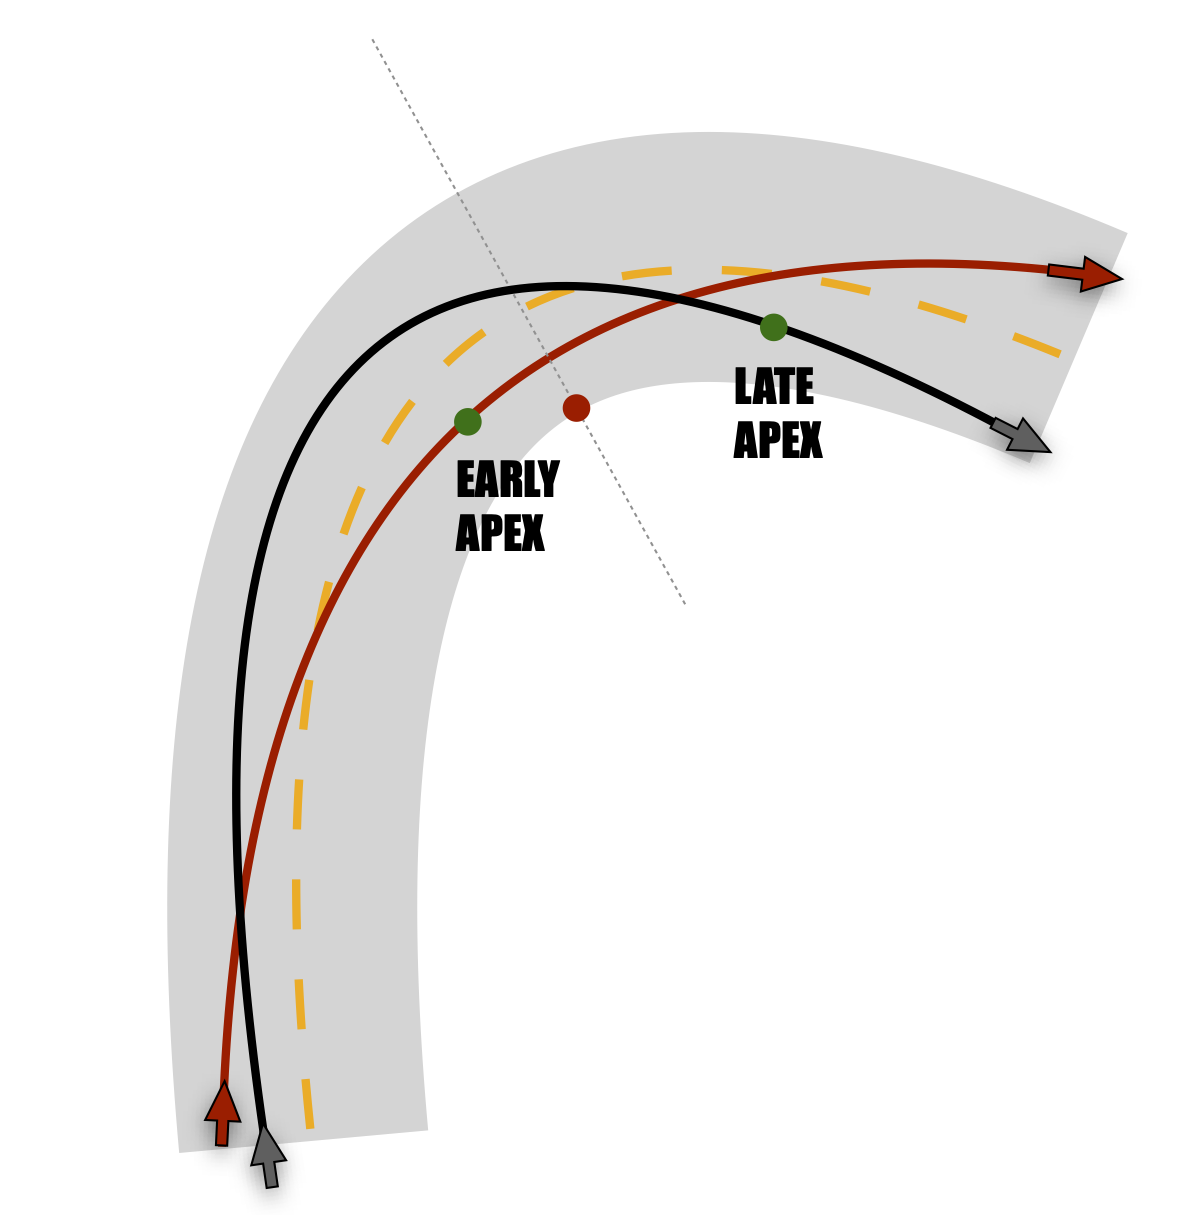
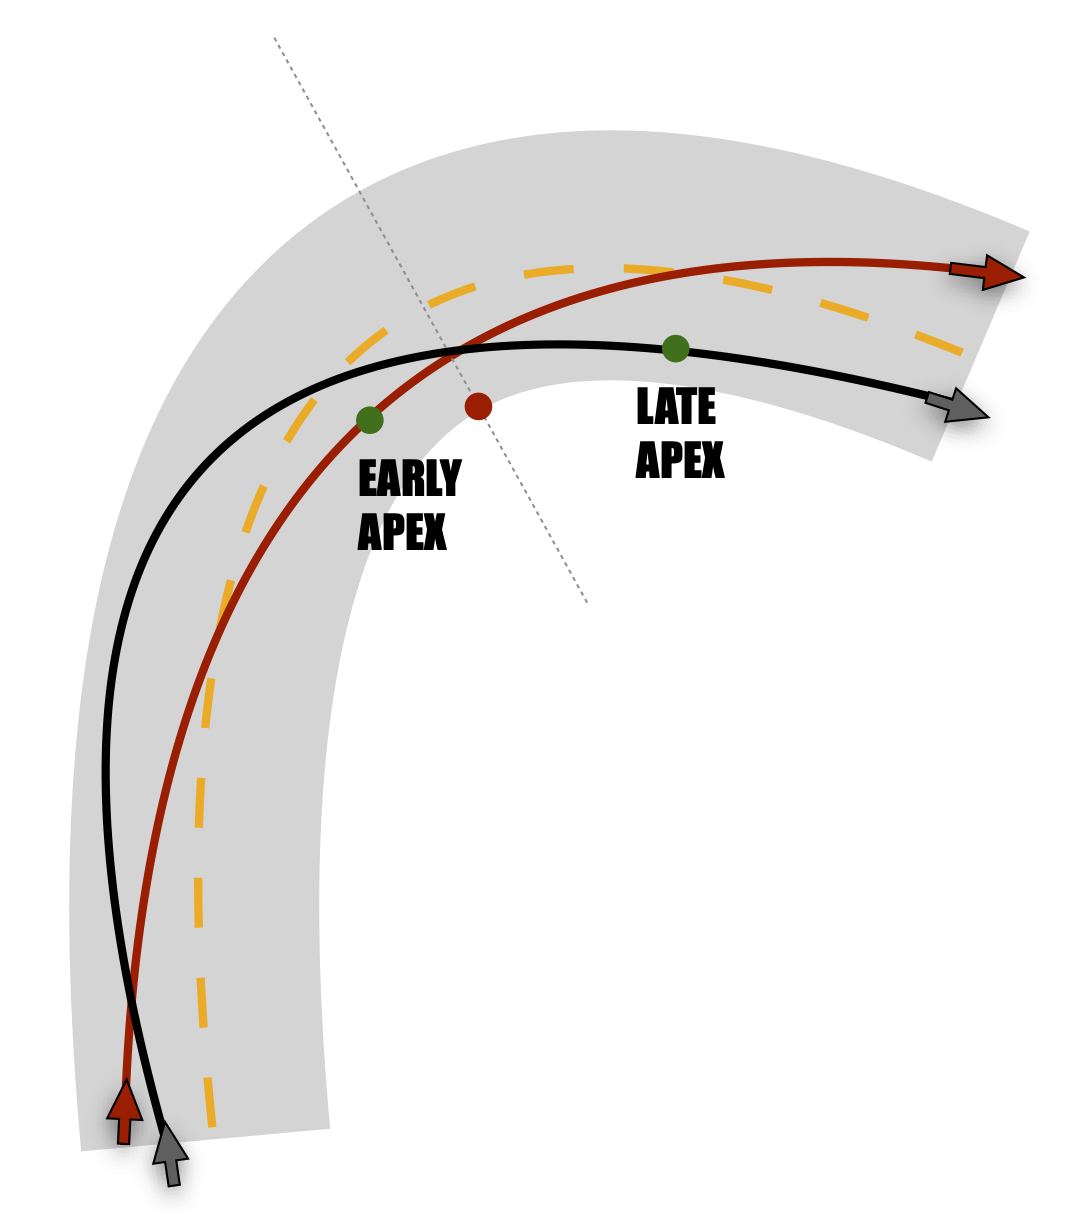
Amended fig and expanded sect

diff --git a/_posts/2022-01-01-blog-post-4.md b/_posts/2022-01-01-blog-post-4.md
@@ -31,18 +31,51 @@ In this blog post I will try to give an idea about:
 
 # High-speeds = high-stakes
 
-As it often happens, the best riders can stand out from the group because their uncommon abilities. However, displaying uncommon *bike handling* abilities can be very dangerous. The limits of the bike-rider performance are dictated by physics, which places rigid constraints to the kind of accelerations (and decelerations) that the bike can sustain without crashing. High speeds are never dangerous *per se*, but they can easily result in unsustainable accelerations. Uncommon *bike handling* abilities therefore require uncommon willing to get closer and closer to the edge of crashing. 
+As it often happens, the best riders can stand out from the group because their uncommon abilities. However, displaying uncommon *bike handling* abilities can be very dangerous. The limits of the bike-rider performance are dictated by physics, which places rigid constraints to the kind of accelerations (and decelerations) that the bike can sustain. High speeds are not dangerous *per se*, but because they can result in unsustainable accelerations. Uncommon *bike handling* abilities therefore require uncommon confidence. 
 
-In road cycling, this is particularly relevant while braking and while cornering. Both braking and cornering require the combination of: pulling the brake levers, steering, and changing body position. While braking can lead to strong longitudinal decelerations, cornering can lead to strong lateral accelerations. Forces needed to complete these actions are generated at the tire-road interface, and therefore depend upon the tire-road friction: the higher the friction, the higher the accelerations that a bike can sustain. 
+Both braking and cornering require different coordinated actions: pulling the brake levers, steering, and changing body position. While braking can lead to strong longitudinal decelerations, cornering can lead to strong lateral accelerations. Forces needed to complete these actions are generated at the tire-road interface, and therefore depend upon the tire-road friction: the higher the friction, the higher the forces that the tire can afford. 
 
-It is well know by experience, that it's easy to experience high-speeds while going downhill. In the next figure, the sequence of actions required during corner negotiation are represented. 
+It's easy to experience high-speeds while going downhill. In the next figure, the sequence of actions required during corner negotiation are represented for a generic downhill high speed corner. As you can see, a change in the body position is required to use the body as a air brake, and then to negotiate the corner. Although the different actions might be the same, every rider can choose a particular timing for every action and a particular strategy for execution.    
 
 <figure align="center">
 <img src="../images/sequence.png" alt="sequence" style="width:50%" />
 <figcaption>Sequence of actions while negotiating a high-speed corner in road cycling.</figcaption>
 </figure>
 
-# The gg diagram
+# *Bike handling* and racing lines
+
+The trajectory that the riders follow while negotiating a corner are often called *racing lines* (a term inherited from motor sports). We can broadly classify two cornering strategies, which lead to different trajectories. Before getting to them, we need to define an important term: the *apex*. In the following picture you can see that the *geometric apex* is the point where the path has the minimum cornering radius. 
+
+<p align="center">
+<img src="../images/apex.png" alt="apex" width="350"/>
+</p>
+
+But we can also detect an *apex* on the racing line, which is usually defined as: '*the point on the inside portion of a corner that a rider passes closest to*'. A trajectory apex can be defined as being an earlier apex or later apex with reference to the *geometric apex*, and they are presented in the following figure.
+
+<p align="center">
+<img src="../images/early_vs_late.png" alt="early_vs_late" width="350"/>
+</p>
+
+* Late apex: The 'late apex' strategy is typically characterized by a hard braking action somehow separated from a following cornering action. The resulting *racing line* ensure a good line of sight and enough space for braking in emergency. This trajectories are usually characterized by low entry speeds and fast exit speed.
+* Early apex: The 'early apex' strategy usually means less margin for error, as there is a very narrow line of sight and not a lot of space for adjusting the speed. A great advantage of this strategy is that, compared to the 'late apex', you can keep higher average speeds and you reduce the total travelled distance. 
+
+## Is there an 'optimal' strategy?
+
+This is the million dollar question. Albeit, by definition, there will always be an 'optimal' strategy (i.e., the one that can lead to the best time performance), there is no evidence that can support a single strategy consistently across every possible condition. I tried to collect here a number of possible variables that can impact the 'optimal' cornering strategy. In short, we can say that the 'optimal' strategy it's individual and highly dependent on the race and environmental conditions. 
+
+* 🧑🤝🧑 Individuality: the 'optimal' strategy depends on the individual's engine. A good sprinter with a lot of power available might prefer a 'late apex' strategy, because he/she can start delivering the power sooner. 
+* ☔ Environmental conditions:
+  * Road conditions, with particular reference to the road surface and the resulting road-tire friction coefficient. In these regards, rain might be a game changer, especially in race with extended technical sections. A wet road of course is more slippery and hard braking actions and high lateral accelerations might not be sustainable. 
+  * Resistive forces are mainly represented here by the air resistive forces. They can have a lot of influence, but it depends upon they are due to front wind or tail wind. Front wind can help you brake more effectively before the corner and accelerate more efficiently after. Therefore, the front wind might support a 'late apex' strategy. On the other hand, tail wind can make it braking problematic, and accelerating after a corner might be even more demanding. Tail wind before the corner would suggest that an 'early apex' strategy is better.   
+  * Slope is another great game changer 
+* 🔋 Race conditions: 
+  * Energy preservation strategies (i.e., the pacing strategies) that the riders are trying to implement can impact the 'optimal' strategy. It is known that strong accelerations that require massive power outputs are mainly supported by the anaerobic alactic metabolic pathway. These big bursts might not be ideal during long races, but they might be required during a breakaway. Again, higher average speeds and early apex strategy is advocated for those who don't like to sprint out after the corners. Indeed, corners are often used by the riders to briefly recover and get ready for the next most demanding race sections.  
+  * What's next? The position and direction of the next corner also affects the choice of the *racing line*. A fast exit speed might be useless if there is another corner that requires attention. Also, the infinite number of variations in road geometry and topology might require very different and hybrid approaches.
+  * Road width is also of high importance, since it narrows down the space available on the road to brake and turn in. 
+
+# Evaluating *bike handling*
+
+## The gg diagram
 
 The gg diagram is widely used in motor racing to depict the accelerations of a vehicle in the road plane. In the following picture the structure of the gg diagram is presented. On the x-axis, lateral accelerations are reported. On the y-axis, longitudinal accelerations are reported. These accelerations are the highest during strong sprint efforts, rapid changes in road slope and hard braking. 
 
@@ -69,52 +102,6 @@ So we introduced the gg diagram as a tool to describe riding behavior, but what 
 </p>
 
 It is pretty apparent that motorcycles can produce higher accelerations in both longitudinal and lateral directions. As you can see, heavy 1000 cc bikes can sustain also strong combinations of lateral and longitudinal accelerations. 
-
-# *Bike handling* and racing lines
-
-The trajectory that the riders follow while negotiating a corner are often called *racing lines* (a term inherited from motor sports) In the following figure, different phases of a corner are depicted. 
-
-With reasonable level of accuracy, we can say that cyclists mainly have two cornering strategies, which lead to pretty different trajectories (or *racing lines*, in the world of motor sports). Before getting to them, we need to define an important term, the *apex*, i.e.: 'the point on the inside portion of a corner that a rider passes closest to'. 
-
-<p align="center">
-<img src="../images/apex.png" alt="apex" width="350"/>
-</p>
-
-An apex can be defined as being an earlier apex or later apex, and hence the related cornering strategies:
-
-* Late apex
-* Early apex
-
-<p align="center">
-<img src="../images/early_vs_late.png" alt="early_vs_late" width="350"/>
-</p>
-
-## Late apex strategy
-
-The 'late apex' strategy is typically characterized by a hard braking action somehow separated from the cornering action (remember our 'black line rider' of the previous sections?). To clip the 'late apex' 
-
-Improved line of sight and space fot braking in emergency
-Increased distance covered
-
-A slightly lower entry speed but a faster exit speed.
-
-## Early apex strategy
-
-The 'early apex' strategy (remember our 'red line rider' of the previous sections?).
-It is believed that this strategy usually means less margin for error, as there is a very narrow line of sight. A great advantage of this strategy is that you keep a higher speed on average and you reduce the covered distance. 
-
-## Is there an 'optimal' strategy?
-
-This is the million dollar question. Albeit, by definition, there will always be an 'optimal' strategy (i.e., the one that can lead to the best time performance), there is no evidence that can support a single strategy consistently across every possible condition. I tried to collect here a number of possible variables that can impact the 'optimal' cornering strategy. In short, we can say that the 'optimal' strategy it's individual and highly dependent on the race and environmental conditions. 
-
-* 🧑🤝🧑 Individuality: the 'optimal' strategy depends on the individual's engine. A good sprinter with a lot of power available might prefer a 'late apex' strategy, because he/she can start delivering the power sooner. 
-* ☔ Environmental conditions:
-  * Road conditions, with particular reference to the road surface and the resulting road-tire friction coefficient. In these regards, rain might be a game changer, especially in race with extended technical sections. A wet road of course is more slippery and hard braking actions and high lateral accelerations might not be sustainable. 
-  * Resistive forces are mainly represented here by the air resistive forces. They can have a lot of influence, but it depends upon they are due to front wind or tail wind. Front wind can help you brake more effectively before the corner and accelerate more efficiently after. Therefore, the front wind might support a 'late apex' strategy. On the other hand, tail wind can make it braking problematic, and accelerating after a corner might be even more demanding. Tail wind before the corner would suggest that an 'early apex' strategy is better.   
-  * Slope is another great game changer 
-* 🔋 Race conditions refer to the energy preservation strategies (i.e., the pacing strategies) that the riders are trying to implement. It is known that strong accelerations that require massive power outputs are mainly supported by the anaerobic alactic metabolic pathway. These big bursts might not be ideal during long races, but they might be required during a breakaway. Again, higher average speeds and early apex strategy is advocated for those who don't like to sprint out after the corners. Indeed, corners are often used by the riders to briefly recover and get ready for the next most demanding race sections.  
-
-Road geometry, with particular reference to the space available on the road. 
 
 # Additional readings
 
